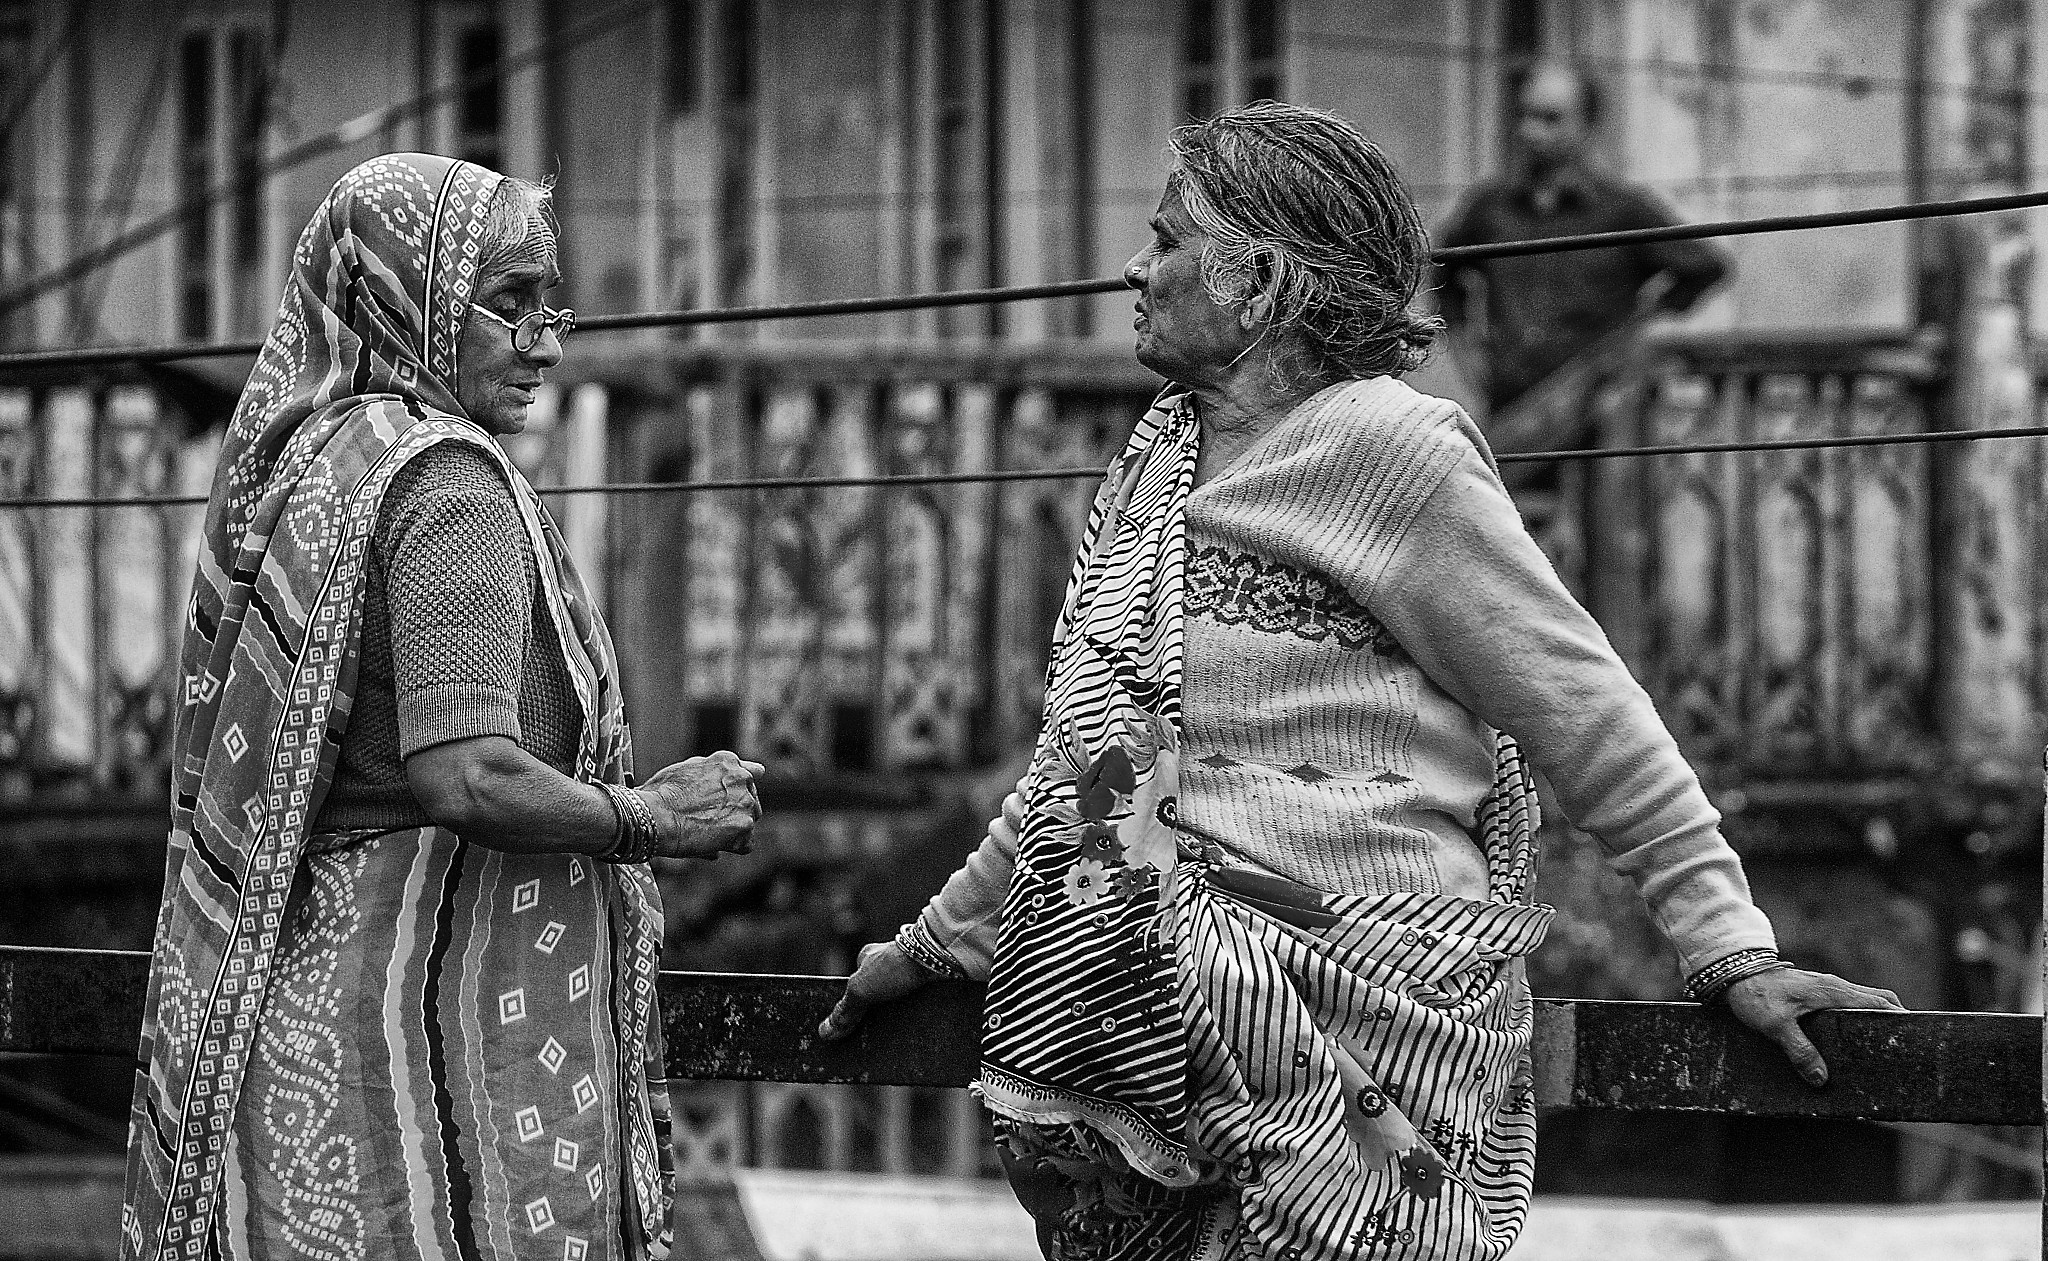
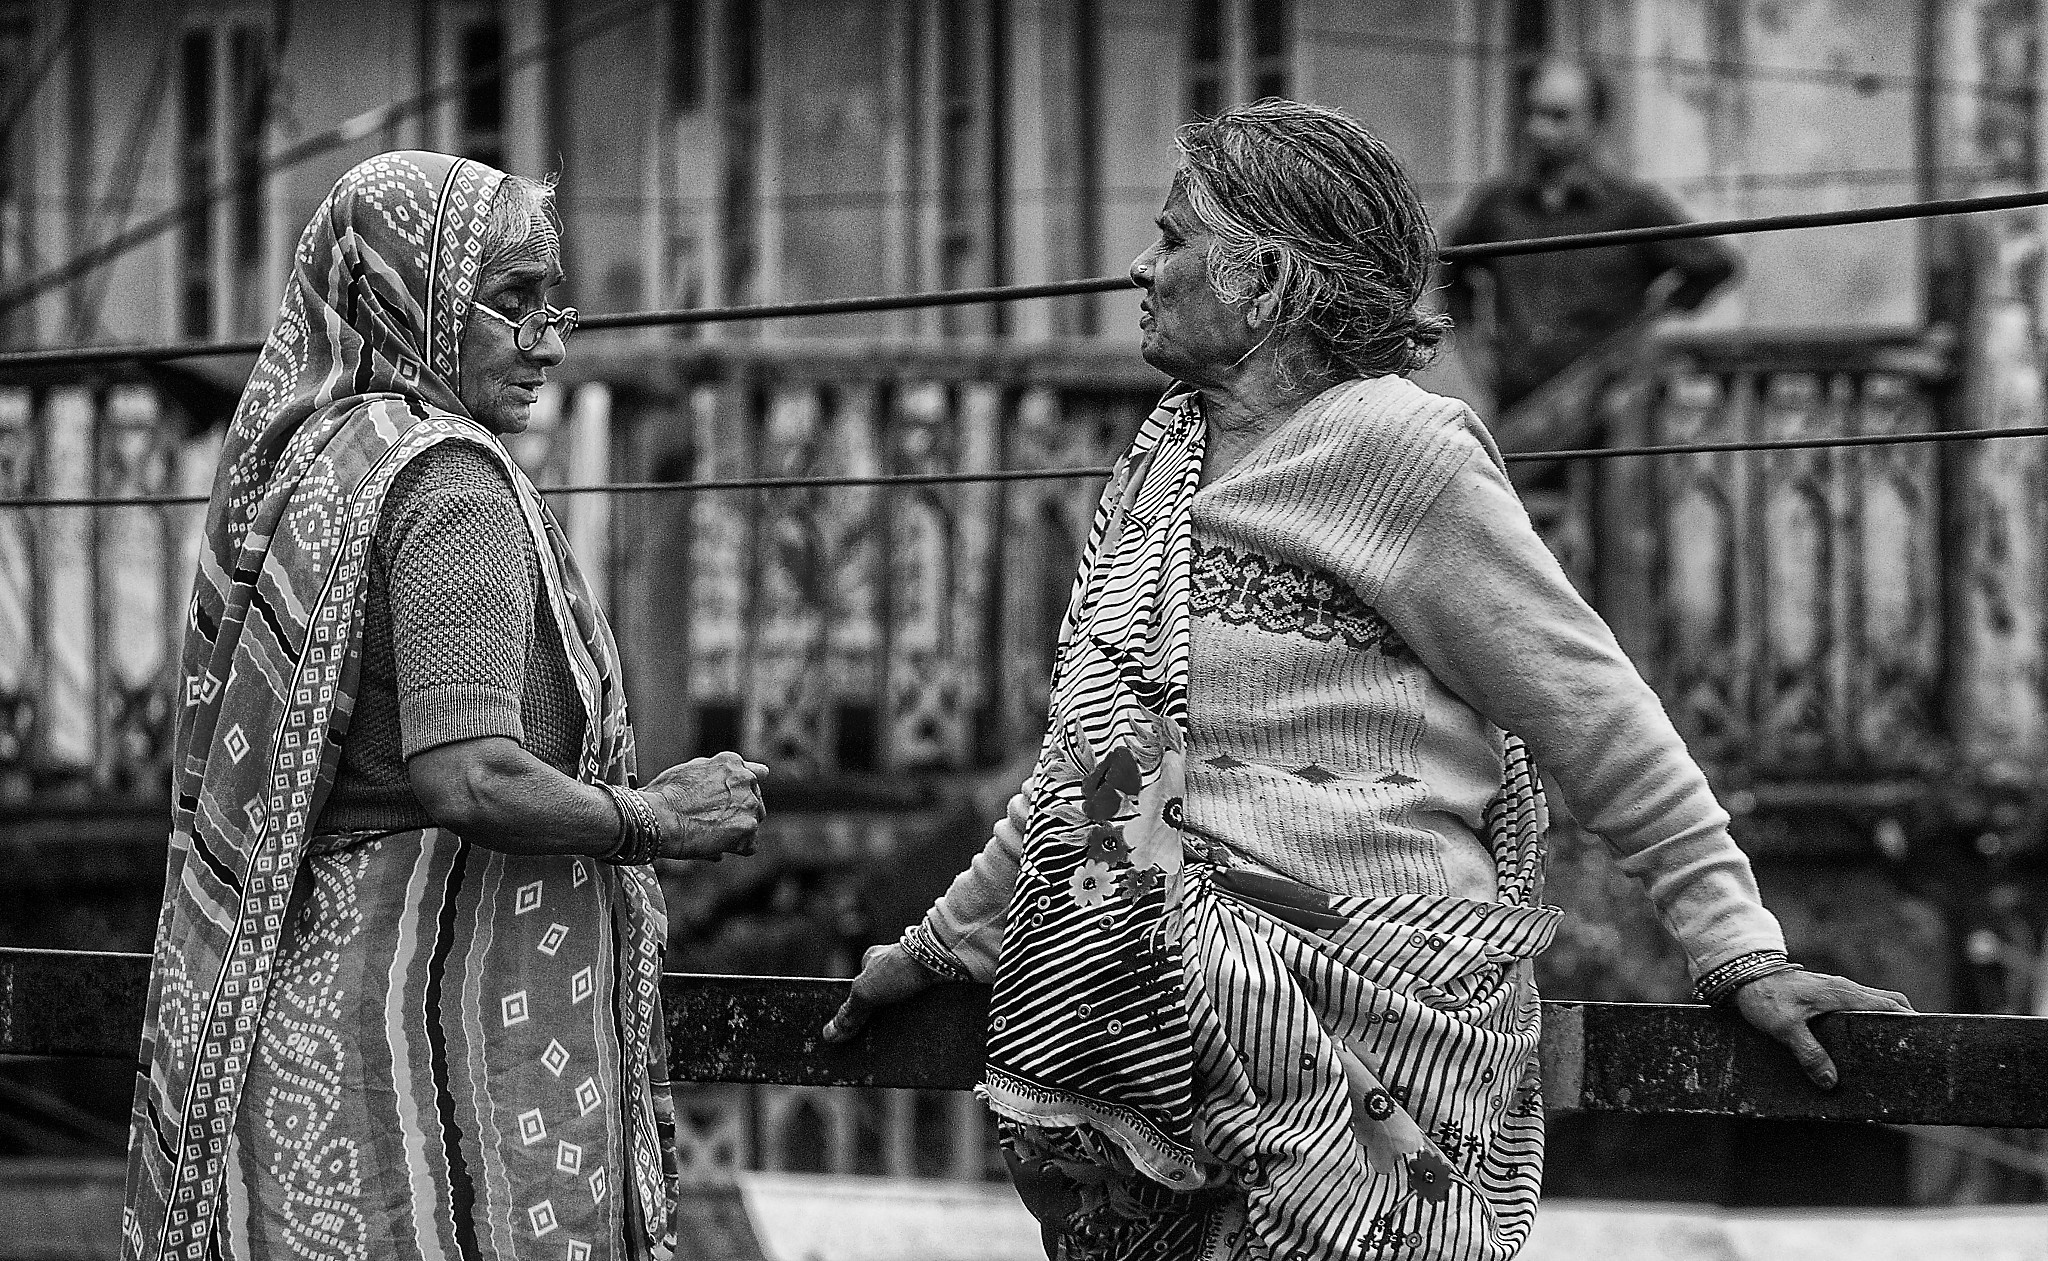
update

diff --git a/src/routes/albums/2012india/+page.svelte b/src/routes/albums/2012india/+page.svelte
@@ -68,7 +68,7 @@
 				<div class="caption">Darjeeling, West Bengal</div>
 			</section>
 			<section>
-				<img src="/images/2012india/09/2012-09-19-060801-1.jpg" alt="" />
+				<img src="/images/2012india/09/2012-09-19-060801.jpg" alt="" />
 			</section>
 		</section>
 

diff --git a/src/lib/app.scss b/src/lib/app.scss
@@ -37,7 +37,8 @@
 		max-width: 90%;
 		// max-width: 90%;
 		// max-height: 80vh;
-		max-height: 70vh;
+		height: 80%;
+		max-height: 90vh;
 	}
 
 	.caption {
